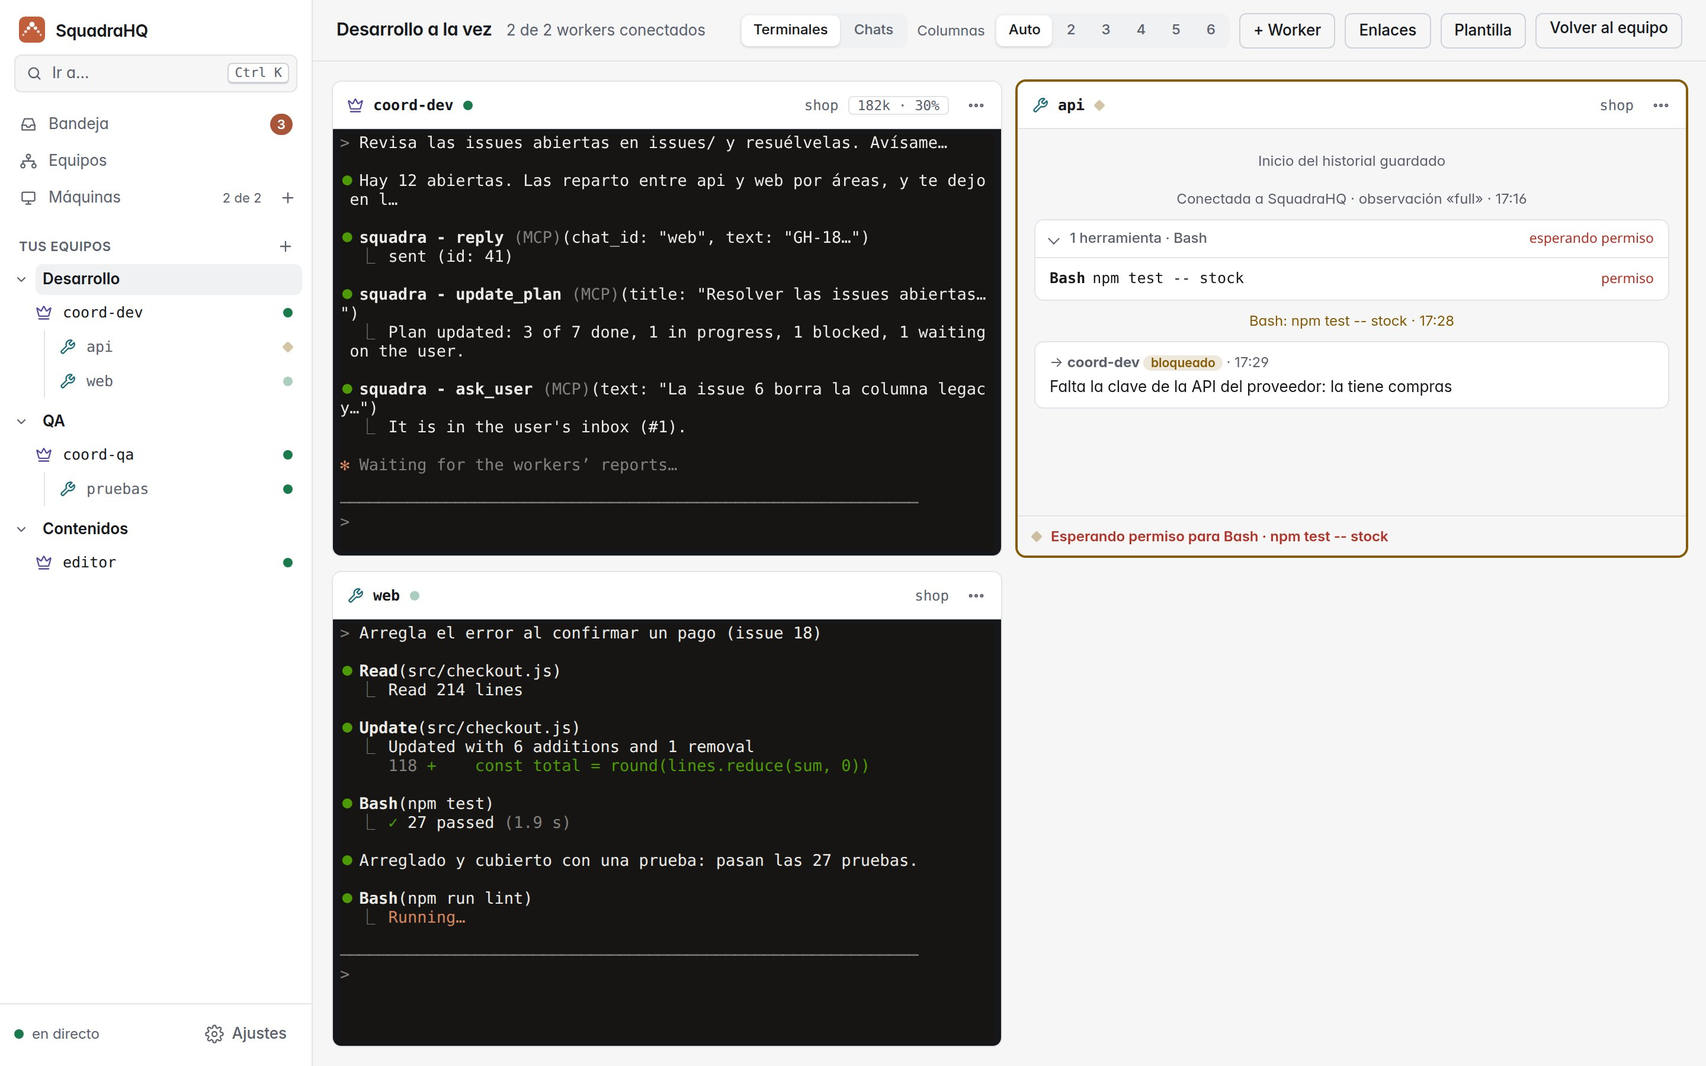
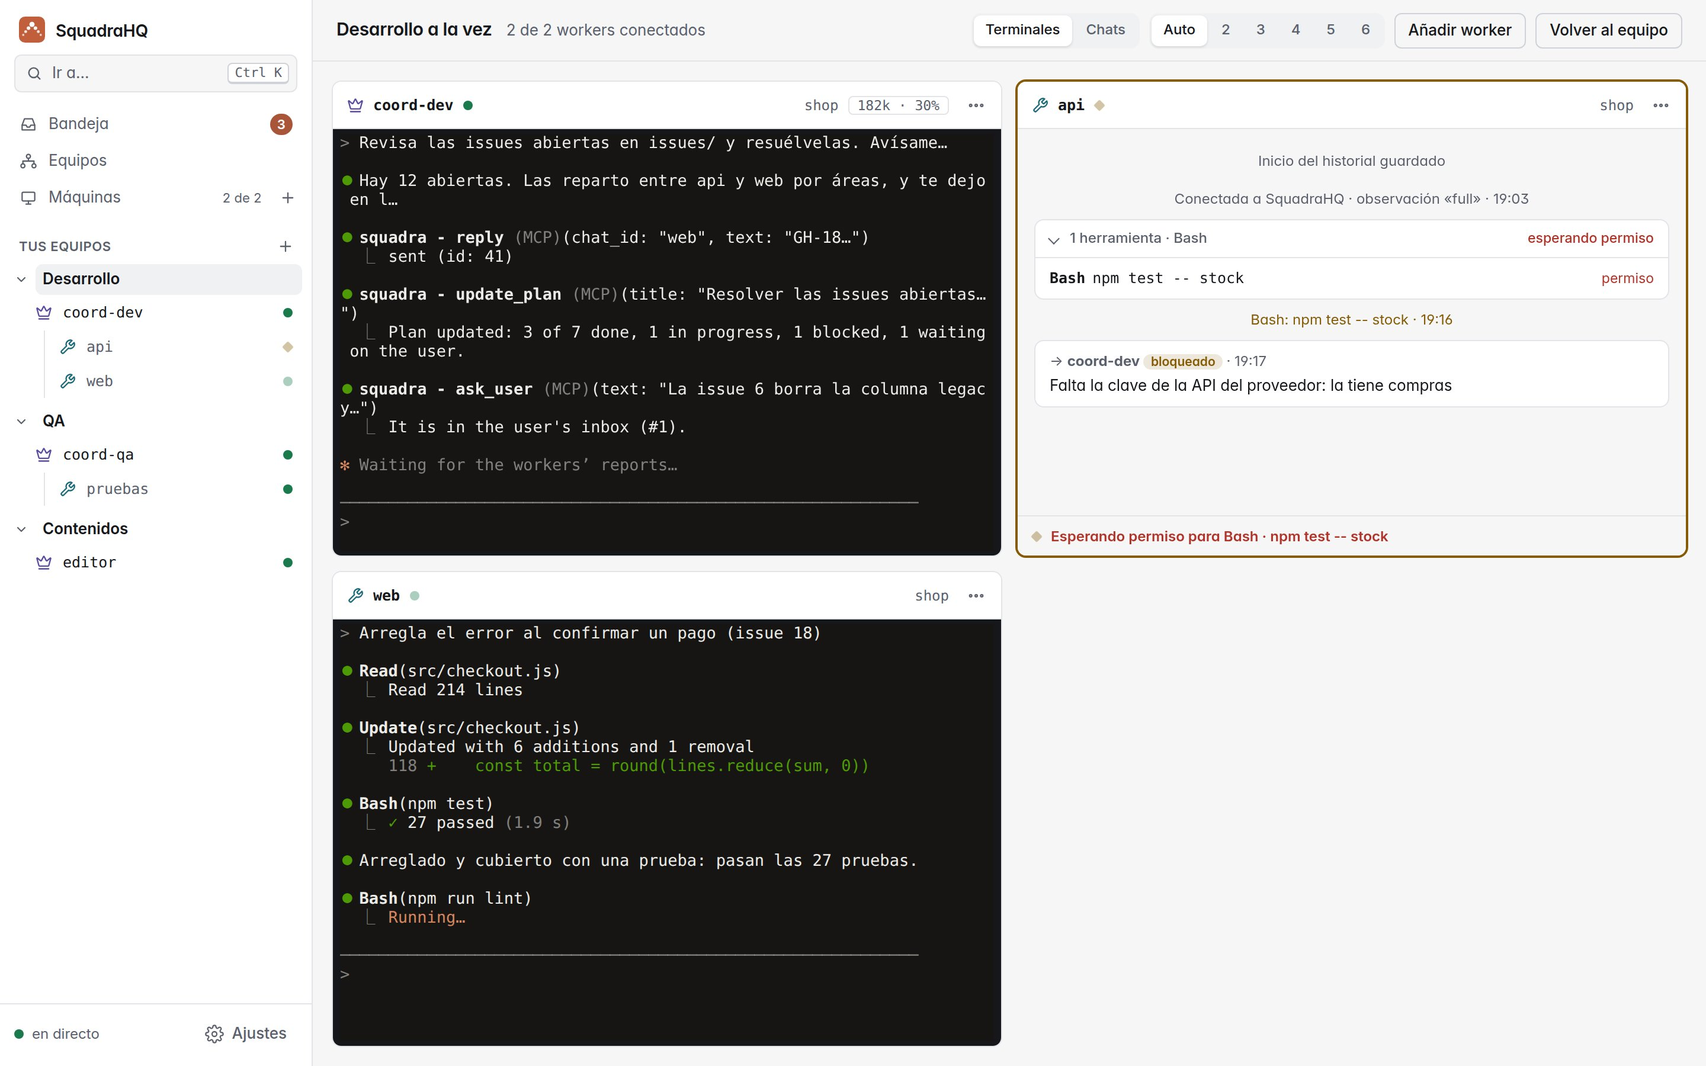
New interface: polished to the detail, with the buttons' text centred on its capitals
Buttons that are links lost a leftover rule that pushed their text up, and every one-line control now centres its text optically (Inter's ascender is taller than its descender). Labels drop the + sign; the team's live view keeps only its columns, Add a worker and Back to the team; quiet buttons line up with the edge. Machines fill the width, with the folders note in plain text; a running tool reads muted beside its green dot; the inbox says Recommended. The website's pills have room again, the phone's frame is concentric, and on a phone the hero shows the phone's own inbox. Screenshots and docs follow the new labels.

diff --git a/server/ui/i18n.js b/server/ui/i18n.js
@@ -119,7 +119,7 @@ const I18N = {
     squadOf: n => `Team ${n}`,
     viewSquad: 'View team',
     viewSquadTitle: n => `Show only ${n} and its workers in the mosaic`,
-    addWorker: '+ Worker',
+    addWorker: 'Add a worker',
     addWorkerTo: n => `Add a worker to ${n}`,
     squadEmpty: n => `${n} is not here.`,
     needsYou: 'Needs you:',
@@ -148,7 +148,7 @@ const I18N = {
     inboxAsk: 'Needs your decision',
     inboxTell: 'For you to know',
     inboxOptions: 'Options',
-    inboxRecommended: 'It recommends',
+    inboxRecommended: 'Recommended',
     inboxAnswer: 'Answer in its session',
     inboxResolve: 'Done',
     inboxDone: 'done',
@@ -231,6 +231,7 @@ const I18N = {
     tqNoReports: 'No reports yet.',
     tqTeam: 'The team',
     tqWho: 'Who they are',
+    tqNoMachine: 'opened by hand',
     tqLinks: 'Links',
     tqLinkedTo: l => `Linked with ${l}: their coordinators hand work to each other.`,
     tqNoLinks: 'Not linked with any other team.',
@@ -432,15 +433,15 @@ const I18N = {
     machinesCount: (on, n) => n ? `${on} of ${n} connected` : 'None yet',
     machinesTitle: 'Machines',
     machinesSub: 'Computers running squadra-host: open sessions on them and use their terminals from here.',
-    addMachine: '+ Add machine',
-    newSession: '+ New session',
+    addMachine: 'Add machine',
+    newSession: 'New session',
     noMachines: 'No machines yet. Install squadra-host on a computer with Claude Code to open sessions from here: click <b>+ Add machine</b> and run the command it gives you there.',
     hostOffline: ago => `Disconnected · seen ${ago} ago`,
     hostPending: ago => `Waiting to connect · added ${ago} ago`,
     hostOnline: 'Connected',
     folders: 'Folders',
     noFolders: 'none yet',
-    addFolder: '+ Folder',
+    addFolder: 'Add folder',
     hostOld: (v, s) => `squadra-host ${v} is older than the server (${s}): on the machine run <code>squadra-host update</code> (from 0.0.2: add the machine again with <b>+ Add machine</b> and remove this one)`,
     addFolderTitle: n => `Allow a folder on ${n}`,
     addFolderText: 'Sessions can be opened in this folder and anything inside it. A path on that machine, such as <code>~/projects</code> or <code>/home/me/work</code>.',
@@ -452,7 +453,7 @@ const I18N = {
     stopAllowing: 'Stop allowing',
     removeFolderText: f => `No new sessions can be opened in <code>${f}</code>. Sessions already open there keep running.`,
     homeFolder: 'home folder: all your files; permissions only in its terminal',
-    foldersLocal: 'changed on the machine only (<code>squadra-host folders add &lt;path&gt;</code>)',
+    foldersLocal: 'changed only on the machine, with <code>squadra-host folders add &lt;path&gt;</code>',
     homeSession: 'This is your home folder: the session reaches all your files, and its permission prompts are answered only in its terminal (not by the coordinator).',
     maxSessions: n => `up to ${n} sessions`,
     typingOn: 'typing from here: allowed',
@@ -592,7 +593,7 @@ const I18N = {
     coordinatorName: 'Coordinator',
     folder: 'Folder',
     subfolder: 'Subfolder (optional)',
-    subfolderHint: 'Relative to the folder above, e.g. my-repo/api',
+    subfolderHint: 'e.g. my-repo/api',
     compact: 'Auto-compact at',
     compactDefault: 'Claude Code default (~967K on 1M models, 200K on others)',
     compactRec: '600K tokens — recommended for 1M-context models',
@@ -726,7 +727,7 @@ const I18N = {
     squadOf: n => `Equipo ${n}`,
     viewSquad: 'Ver equipo',
     viewSquadTitle: n => `Ver en el mosaico solo a ${n} y sus workers`,
-    addWorker: '+ Worker',
+    addWorker: 'Añadir worker',
     addWorkerTo: n => `Añadir un worker a ${n}`,
     squadEmpty: n => `${n} no está.`,
     needsYou: 'Te necesitan:',
@@ -755,7 +756,7 @@ const I18N = {
     inboxAsk: 'Necesita tu decisión',
     inboxTell: 'Para que lo sepas',
     inboxOptions: 'Opciones',
-    inboxRecommended: 'Recomienda',
+    inboxRecommended: 'Recomendada',
     inboxAnswer: 'Responder en su sesión',
     inboxResolve: 'Hecho',
     inboxDone: 'hecho',
@@ -838,6 +839,7 @@ const I18N = {
     tqNoReports: 'Aún no hay informes.',
     tqTeam: 'El equipo',
     tqWho: 'Quiénes son',
+    tqNoMachine: 'abierta a mano',
     tqLinks: 'Enlaces',
     tqLinkedTo: l => `Enlazado con ${l}: sus coordinadores se pasan trabajo.`,
     tqNoLinks: 'No está enlazado con otros equipos.',
@@ -1039,15 +1041,15 @@ const I18N = {
     machinesCount: (on, n) => n ? `${on} de ${n} conectadas` : 'Ninguna todavía',
     machinesTitle: 'Máquinas',
     machinesSub: 'Ordenadores con squadra-host: abre sesiones en ellos y usa sus terminales desde aquí.',
-    addMachine: '+ Añadir máquina',
-    newSession: '+ Nueva sesión',
+    addMachine: 'Añadir máquina',
+    newSession: 'Nueva sesión',
     noMachines: 'Todavía no hay máquinas. Instala squadra-host en un ordenador con Claude Code para abrir sesiones desde aquí: pulsa <b>+ Añadir máquina</b> y ejecuta allí el comando que te da.',
     hostOffline: ago => `Desconectada · vista hace ${ago}`,
     hostPending: ago => `Pendiente de conectar · añadida hace ${ago}`,
     hostOnline: 'Conectada',
     folders: 'Carpetas',
     noFolders: 'ninguna todavía',
-    addFolder: '+ Carpeta',
+    addFolder: 'Añadir carpeta',
     hostOld: (v, s) => `squadra-host ${v} es más antiguo que el servidor (${s}): en la máquina ejecuta <code>squadra-host update</code> (desde la 0.0.2: vuelve a añadir la máquina con <b>+ Añadir máquina</b> y elimina esta)`,
     addFolderTitle: n => `Permitir una carpeta en ${n}`,
     addFolderText: 'Se podrán abrir sesiones en esta carpeta y en todo lo que contiene. Una ruta de esa máquina, como <code>~/proyectos</code> o <code>/home/yo/trabajo</code>.',
@@ -1059,7 +1061,7 @@ const I18N = {
     stopAllowing: 'Dejar de permitir',
     removeFolderText: f => `No se podrán abrir sesiones nuevas en <code>${f}</code>. Las que ya están abiertas ahí siguen funcionando.`,
     homeFolder: 'carpeta personal: todos tus ficheros; permisos solo en su terminal',
-    foldersLocal: 'se cambian solo en la máquina (<code>squadra-host folders add &lt;ruta&gt;</code>)',
+    foldersLocal: 'se cambian solo en la máquina, con <code>squadra-host folders add &lt;ruta&gt;</code>',
     homeSession: 'Es tu carpeta personal: la sesión accede a todos tus ficheros, y sus permisos se aprueban solo en su terminal (no el coordinador).',
     maxSessions: n => `hasta ${n} sesiones`,
     typingOn: 'escribir desde aquí: permitido',
@@ -1199,7 +1201,7 @@ const I18N = {
     coordinatorName: 'Coordinador',
     folder: 'Carpeta',
     subfolder: 'Subcarpeta (opcional)',
-    subfolderHint: 'Relativa a la carpeta de arriba, p. ej. mi-repo/api',
+    subfolderHint: 'p. ej. mi-repo/api',
     compact: 'Autocompactar a los',
     compactDefault: 'Lo que haga Claude Code (~967K en modelos de 1M, 200K en el resto)',
     compactRec: '600K tokens — recomendado para modelos de 1M de contexto',

diff --git a/server/ui/topbar.js b/server/ui/topbar.js
@@ -85,20 +85,20 @@ export function renderTop() {
     const ws = sortedSessions().filter(s => s.role !== 'coordinator' && cs.some(c => c.name === s.coordinator))
     setHtml($('topTitle'), esc(T.leads))
     $('topSub').textContent = T.leadsSub(cs.length, ws.length)
-    setHtml($('topRight'), `<span>${T.columns}</span><span class="seg" id="colsSeg">${['auto', '1', '2', '3', '4'].map(n => `<button data-c="${n}" class="${n === state.cols ? 'on' : ''}">${n === 'auto' ? T.auto : n}</button>`).join('')}</span>`)
+    setHtml($('topRight'), `<span class="seg" id="colsSeg" role="group" aria-label="${esc(T.columns)}" title="${esc(T.columns)}">${['auto', '1', '2', '3', '4'].map(n => `<button data-c="${n}" class="${n === state.cols ? 'on' : ''}">${n === 'auto' ? T.auto : n}</button>`).join('')}</span>`)
     return
   }
   if (r.view === 'mosaic') {
     // (Who has no terminals has nothing to choose.)
     const modeSeg = !can('operator') ? '' : `<span class="seg" id="modeSeg">${['terms', 'chats'].map(m => `<button data-mode="${m}" class="${m === state.mosaicMode ? 'on' : ''}">${m === 'terms' ? T.modeTerms : T.modeChats}</button>`).join('')}</span>`
-    const colsSeg = `${modeSeg}<span>${T.columns}</span><span class="seg" id="colsSeg">${['auto', '2', '3', '4', '5', '6'].map(n => `<button data-c="${n}" class="${n === state.cols ? 'on' : ''}">${n === 'auto' ? T.auto : n}</button>`).join('')}</span>`
+    const colsSeg = `${modeSeg}<span class="seg" id="colsSeg" role="group" aria-label="${esc(T.columns)}" title="${esc(T.columns)}">${['auto', '2', '3', '4', '5', '6'].map(n => `<button data-c="${n}" class="${n === state.cols ? 'on' : ''}">${n === 'auto' ? T.auto : n}</button>`).join('')}</span>`
     if (r.squad) {
       const c = sessions.get(r.squad)
       const ws = sortedSessions().filter(s => s.role !== 'coordinator' && s.coordinator === r.squad)
       setHtml($('topTitle'), esc(T.tqLiveTitle(state.squadMeta.get(r.squad)?.title || r.squad)))
       const linked = linksOf(r.squad)
       $('topSub').textContent = [T.squadCount(ws.filter(w => w.online).length, ws.length), linked.length ? T.linkedWith(linked.join(', ')) : ''].filter(Boolean).join(' · ')
-      setHtml($('topRight'), `${colsSeg}${can('operator') ? `<button class="btn" data-addworker="${esc(r.squad)}" title="${esc(T.addWorkerTo(r.squad))}">${T.addWorker}</button>` : ''}${can('manager') ? `<button class="btn" data-links="${esc(r.squad)}" title="${esc(T.linksTitle(r.squad))}">${T.links(linked.length)}</button><button class="btn" data-savetpl="${esc(r.squad)}" title="${esc(T.saveTemplateTitle(r.squad))}">${T.saveTemplate}</button>` : ''}<a class="btn" href="#/q/${encodeURIComponent(r.squad)}">${esc(T.tqBackToTeam)}</a>`)
+      setHtml($('topRight'), `${colsSeg}${can('operator') ? `<button class="btn" data-addworker="${esc(r.squad)}">${esc(T.addWorker)}</button>` : ''}<a class="btn" href="#/q/${encodeURIComponent(r.squad)}">${esc(T.tqBackToTeam)}</a>`)
       return
     }
     setHtml($('topTitle'), esc(T.teams)); setHtml($('topTabs'), teamsSeg('mosaic'))

diff --git a/server/ui/styles.css b/server/ui/styles.css
@@ -119,8 +119,8 @@ code { font-family: var(--mono); font-size: .92em; background: var(--panel-2); p
 .tool .arg { overflow: hidden; text-overflow: ellipsis; white-space: nowrap; min-width: 0; }
 .tool .tn { font-weight: 700; flex: none; }
 .tool .agent { font-family: system-ui, sans-serif; font-size: 10.5px; color: var(--info); border: 1px solid var(--line); border-radius: 4px; padding: 0 4px; flex: none; }
-.res { margin-left: auto; flex: none; font-family: system-ui, sans-serif; font-size: 11.5px; padding-left: 8px; }
-.res.ok { color: var(--ok); } .res.err { color: var(--err); } .res.run { color: var(--warn); }
+.res { margin-left: auto; flex: none; font-family: var(--sans); font-size: 11.5px; padding-left: 8px; }
+.res.ok { color: var(--ok); } .res.err { color: var(--err); } .res.run { color: var(--muted); }
 .tool details summary { cursor: pointer; color: var(--muted); font: 11.5px system-ui, sans-serif; margin-left: 22px; }
 .tool details pre { margin: 3px 0 4px 22px; padding: 7px 9px; background: var(--panel-2); border-radius: 6px; white-space: pre-wrap; overflow-wrap: anywhere; max-height: 300px; overflow: auto; }
 .t { color: var(--muted); font-size: 11px; font-family: var(--mono); }
@@ -310,7 +310,6 @@ code { font-family: var(--mono); font-size: .92em; background: var(--panel-2); p
 #companySelect { margin: 4px 10px 8px; padding: 6px 8px; border: 1px solid var(--line); border-radius: 8px; background: var(--bg); color: var(--text); }
 #peopleBtn { margin-left: auto; }
 table.people .note { font-size: 12px; color: var(--muted); }
-a.btn { display: inline-block; text-decoration: none; }
 .people-form { display: flex; flex-wrap: wrap; align-items: flex-end; gap: 8px; margin-bottom: 10px; }
 .people-form .field { flex: 1 1 160px; margin: 0; }
 .people-form .btn { flex: none; padding: 8px 14px; }

diff --git a/docs/es/index.html b/docs/es/index.html
@@ -58,7 +58,7 @@
 <main>
 <div class="hero">
   <div class="wrap">
-    <p class="eyebrow"><b>Nuevo</b>Una bandeja para tus decisiones, y un plan para cada equipo</p>
+    <p class="eyebrow"><b>Nuevo</b><span class="long">Una bandeja para tus decisiones, y un plan para cada equipo</span><span class="short">Una bandeja para tus decisiones</span></p>
     <h1>Tus agentes de Claude Code, trabajando en equipo.</h1>
     <p class="lead">Un coordinador reparte el trabajo entre sus workers, en cualquiera de tus máquinas, y aprueba lo que es seguro. Lo que te toca decidir te espera en la bandeja, así que puedes estar en otra parte.</p>
     <div class="cta">
@@ -68,7 +68,7 @@
     <p class="note">Código abierto, MIT. Autoalojado: un servidor Node.js, sin dependencias.</p>
     <div class="window">
       <div class="bar" aria-hidden="true"><i></i><i></i><i></i></div>
-      <picture><source srcset="../screenshots/inbox-dark-es.jpg" media="(prefers-color-scheme: dark)"><img src="../screenshots/inbox-light-es.jpg" alt="La bandeja de SquadraHQ: un permiso pendiente y dos decisiones del coordinador de Desarrollo, una abierta con sus opciones y la recomendada marcada" width="2880" height="1800" fetchpriority="high"></picture>
+      <picture><source srcset="../screenshots/phone-inbox-dark-es.jpg" media="(max-width: 700px) and (prefers-color-scheme: dark)"><source srcset="../screenshots/phone-inbox-light-es.jpg" media="(max-width: 700px)"><source srcset="../screenshots/inbox-dark-es.jpg" media="(prefers-color-scheme: dark)"><img src="../screenshots/inbox-light-es.jpg" alt="La bandeja de SquadraHQ: un permiso pendiente y dos decisiones del coordinador de Desarrollo, una abierta con sus opciones y la recomendada marcada" width="2880" height="1800" fetchpriority="high"></picture>
     </div>
   </div>
 </div>

diff --git a/docs/index.html b/docs/index.html
@@ -58,7 +58,7 @@
 <main>
 <div class="hero">
   <div class="wrap">
-    <p class="eyebrow"><b>New</b>An inbox for your decisions, and a plan for every team</p>
+    <p class="eyebrow"><b>New</b><span class="long">An inbox for your decisions, and a plan for every team</span><span class="short">An inbox for your decisions</span></p>
     <h1>Your Claude Code agents, run as a team.</h1>
     <p class="lead">A coordinator splits the work among its workers, on any of your machines, and approves what is safe. What is yours to decide waits in your inbox, so you can be somewhere else.</p>
     <div class="cta">
@@ -68,7 +68,7 @@
     <p class="note">Open source, MIT. Self-hosted: one Node.js server, no dependencies.</p>
     <div class="window">
       <div class="bar" aria-hidden="true"><i></i><i></i><i></i></div>
-      <picture><source srcset="screenshots/inbox-dark-en.jpg" media="(prefers-color-scheme: dark)"><img src="screenshots/inbox-light-en.jpg" alt="The SquadraHQ inbox: a permission waiting and two decisions from the Development coordinator, one open with its options and the recommended one marked" width="2880" height="1800" fetchpriority="high"></picture>
+      <picture><source srcset="screenshots/phone-inbox-dark-en.jpg" media="(max-width: 700px) and (prefers-color-scheme: dark)"><source srcset="screenshots/phone-inbox-light-en.jpg" media="(max-width: 700px)"><source srcset="screenshots/inbox-dark-en.jpg" media="(prefers-color-scheme: dark)"><img src="screenshots/inbox-light-en.jpg" alt="The SquadraHQ inbox: a permission waiting and two decisions from the Development coordinator, one open with its options and the recommended one marked" width="2880" height="1800" fetchpriority="high"></picture>
     </div>
   </div>
 </div>

diff --git a/docs/site.css b/docs/site.css
@@ -83,7 +83,7 @@ h2 { margin: 0 0 18px; font-size: clamp(30px, 4.4vw, 50px); line-height: 1.08; f
 .points li b { color: var(--text); font-weight: 600; }
 .points svg { width: 22px; height: 22px; margin-top: 2px; color: var(--accent); fill: none; stroke: currentColor; stroke-width: 1.8; stroke-linecap: round; stroke-linejoin: round; }
 .phone { width: min(320px, 80%); margin: 0 auto; border: 1px solid var(--line-2); border-radius: 36px; padding: 10px; background: var(--panel); box-shadow: var(--shadow); }
-.phone img { border-radius: 28px; }
+.phone img { border-radius: 26px; } /* concentric: 36 outside, 10 of frame */
 .pair { position: relative; }
 .pair .window { margin: 0; }
 .pair .phone { position: absolute; right: -24px; bottom: -48px; width: 190px; border-radius: 26px; padding: 6px; }
@@ -137,3 +137,19 @@ footer a:hover { color: var(--text); }
   .compare { display: block; overflow-x: auto; }
 }
 pre.code code { background: none; padding: 0; font-size: inherit; }
+
+/* One-line controls centre their text on its capitals (Inter's ascender is taller than its descender). */
+.btn, .eyebrow, .eyebrow b, .lang, .top nav a, .ex .toc a, .step::before { text-box: trim-both cap alphabetic; }
+.eyebrow { padding: 6px 13px 6px 6px; }
+.eyebrow b { padding: 5px 8px; }
+.top .lang { padding: 8px 11px; }
+
+/* A phone: the hero shows the phone's own inbox, in a phone's frame. */
+@media (max-width: 700px) {
+  .eyebrow { font-size: 13px; }
+  .eyebrow .long { display: none; }
+  .hero .window { width: min(300px, 82%); margin: 44px auto 0; border-radius: 34px; padding: 9px; }
+  .hero .window .bar { display: none; }
+  .hero .window img { border-radius: 25px; }
+}
+@media (min-width: 701px) { .eyebrow .short { display: none; } }

diff --git a/server/ui/ds-components.css b/server/ui/ds-components.css
@@ -1,6 +1,11 @@
 /* SquadraHQ design system: components shared by every screen.
    Loaded after the screens' own styles, so these win where both define one. */
 
+/* --- optical centring ------------------------------------------------------- */
+/* One-line controls centre their text on its capitals, not on the font's box
+   (Inter's ascender is taller than its descender: a word sat a pixel high). */
+.btn, .seg button, .seg a, .badge, .tag, kbd, .kbd, .menu button, .rail-item, .rail-settings, .rail-search, .icon-btn { text-box: trim-both cap alphabetic; }
+
 /* --- icons ----------------------------------------------------------------- */
 /* Strokes in the colour of their text (icons.js); each place may size them. */
 .ic { width: 16px; height: 16px; flex: none; fill: none; stroke: currentColor; stroke-width: 1.7; stroke-linecap: round; stroke-linejoin: round; vertical-align: middle; }
@@ -132,3 +137,7 @@ table.people select { width: auto; min-height: 28px; padding: 3px 8px; }
 /* --- empty states ---------------------------------------------------------- */
 .empty { display: flex; flex-direction: column; align-items: center; gap: var(--s2); padding: 64px var(--s5); text-align: center; color: var(--muted); }
 .empty b { color: var(--text); font-size: var(--fs-lg); font-weight: 600; }
+
+/* A quiet button at either end of a row lines its text up with the text around it. */
+.tq-h > .btn.quiet:last-child, .nt-card-h > .btn.quiet:last-child { margin-right: -11px; }
+.tq-act.quiet { margin-left: -1px; }

diff --git a/server/ui/machines.js b/server/ui/machines.js
@@ -57,7 +57,7 @@ function folderChips(h) {
     const home = i.home && f === i.home
     return `<span class="fchip ${home ? 'home' : ''}" title="${esc(home ? T.homeFolder : f)}"><code>${home ? '' : ''}${esc(f)}</code>${editable ? `<button type="button" data-hact="rmfolder" data-h="${esc(h.id)}" data-f="${esc(f)}" title="${esc(T.removeFolder(f))}" aria-label="${esc(T.removeFolder(f))}">✕</button>` : ''}</span>`
   }).join(' ')
-  return `${chips || T.noFolders}${editable && can('manager') ? ` <button type="button" class="btn addf" data-hact="addfolder" data-h="${esc(h.id)}">${T.addFolder}</button>` : h.online && i.folders_from_dashboard === false && i.version ? ` <span class="t">(${T.foldersLocal})</span>` : ''}`
+  return `${chips || T.noFolders}${editable && can('manager') ? ` <button type="button" class="btn addf" data-hact="addfolder" data-h="${esc(h.id)}">${T.addFolder}</button>` : h.online && i.folders_from_dashboard === false && i.version ? ` <span class="t">· ${T.foldersLocal}</span>` : ''}`
 }
 
 // Connected, disconnected, or enrolled and never connected yet.

diff --git a/server/ui/team.js b/server/ui/team.js
@@ -37,7 +37,7 @@ function who(s, extra = '') {
   const role = s.role === 'coordinator' ? 'coord' : 'worker'
   const h = hosts.get(s.host_id)
   return `<li><a href="#/s/${encodeURIComponent(s.name)}" class="tq-member${s.online ? '' : ' offline'}"><span class="role ${role}" aria-hidden="true"></span><span class="sr-only">${esc(T.roleName[s.role] ?? '')}</span>`
-    + `<span class="tq-name">${esc(s.name)}</span><span class="dot ${st.dot || 'off'}" aria-hidden="true"></span><span class="tq-where">${esc(h?.name ?? st.text)}</span>${extra}</a></li>`
+    + `<span class="tq-name">${esc(s.name)}</span><span class="dot ${st.dot || 'off'}" aria-hidden="true"></span><span class="tq-where">${esc(h?.name ?? T.tqNoMachine)}</span>${extra}</a></li>`
 }
 
 // The plan its coordinator keeps (update_plan): how far it is, and each task.

diff --git a/server/ui/screen-team.css b/server/ui/screen-team.css
@@ -61,5 +61,5 @@
 .pl-note { display: block; margin-top: 2px; font-size: var(--fs-sm); color: var(--muted); }
 .pl-who { display: inline-flex; align-items: center; gap: 5px; color: var(--text); text-decoration: none; font-family: var(--mono); font-size: 12.5px; }
 .pl-who .role { width: 12px; height: 12px; }
-.tq-quiet0 { color: var(--muted); font-family: var(--mono); font-size: 12px; }
+.tq-quiet0 { color: var(--muted); font-size: var(--fs-sm); }
 .pl-foot { padding: 10px 16px 12px; border-top: 1px solid var(--line); font-size: var(--fs-sm); color: var(--muted); }

diff --git a/server/ui/screen-machines.css b/server/ui/screen-machines.css
@@ -1,7 +1,8 @@
 /* Machines: how they all are, what to check on one that stopped answering, and each one with its sessions. */
 
 #hosts { padding: 20px; }
-.host-list { max-width: 1100px; margin: 0; gap: 16px; }
+.host-list { max-width: none; margin: 0; gap: 16px; }
+.host-meta .t { font-family: var(--sans); font-size: var(--fs-sm); }
 
 .mc-card { overflow: hidden; }
 .mc-scroll { overflow-x: auto; }

diff --git a/server/ui/overlays.css b/server/ui/overlays.css
@@ -92,4 +92,4 @@
   .settings-close .x { width: 44px; height: 44px; }
   .settings-close kbd { display: none; }
 }
-.settings-ver { margin-top: 14px; }
+.note.settings-ver { margin: 16px 0 0; font-size: var(--fs-xs); }
